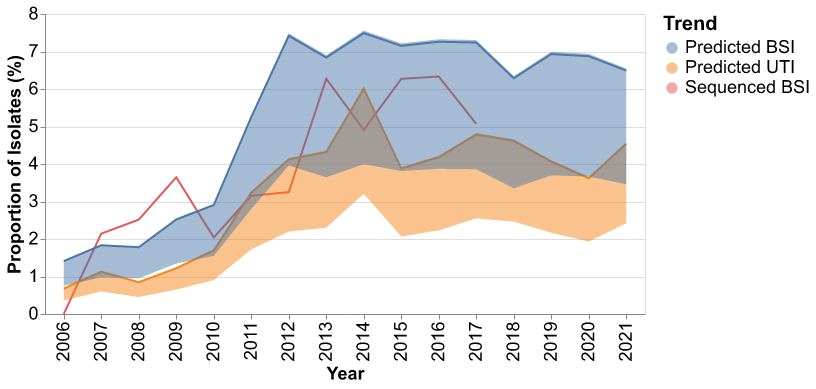
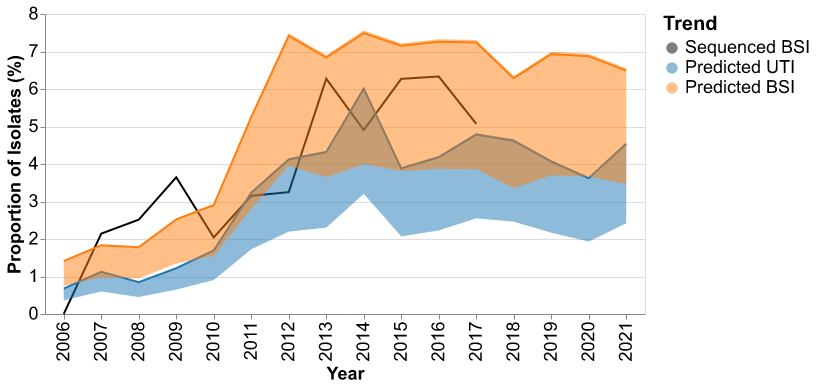
updating plot colors

Changed region(s): [[0.0613, 0.0617, 0.7659, 0.8021], [0.7966, 0.0925, 1.0, 0.1851], [0.7966, 0.1851, 1.0, 0.2468]]

diff --git a/scripts/classifierutils.py b/scripts/classifierutils.py
@@ -283,10 +283,12 @@ def testClassifiers(df:pd.core.frame.DataFrame, err_df:pd.core.frame.DataFrame, 
         alt_df.reset_index(inplace=True)
 
         ## Visualize the fraction predictions
+        c_domain = classifier_names+["Truth"]
+        c_range = ["#1f77b4","#ff7f0e","#000000"]
         line = alt.Chart(alt_df).mark_line().encode(
             x="Year:O",
             y=alt.Y("Fraction:Q", title="Proportion of Isolates (%)"),
-            color=alt.Color("Classifier:N", sort=classifier_names+["Truth"])
+            color=alt.Color("Classifier:N", sort=c_domain).scale(domain=c_domain, range=c_range)
         ).properties(
             title=split
         )
@@ -294,7 +296,7 @@ def testClassifiers(df:pd.core.frame.DataFrame, err_df:pd.core.frame.DataFrame, 
             x="Year:O",
             y=alt.Y("max:Q", title="Proportion of Isolates (%)"),
             y2=alt.Y2("min:Q", title="Proportion of Isolates (%)"),
-            color=alt.Color("Classifier:N", sort=classifier_names+["Truth"])
+            color=alt.Color("Classifier:N", sort=c_domain).scale(domain=c_domain, range=c_range)
         )
         chrt = line+err_band
         chrt = chrt.properties(width=300, height=300)
@@ -407,10 +409,12 @@ def predictClassifiers(uti_df:pd.core.frame.DataFrame, bsi_df:pd.core.frame.Data
     melt_alt_df.reset_index(inplace=True)
     
     ## Visualize the predicted yearly fractions
+    c_domain = melt_alt_df["Classifier"].unique().tolist()
+    c_range = ["#000000","#1f77b4","#ff7f0e"]
     line = alt.Chart(melt_alt_df).mark_line().encode(
         x="Year:O",
         y=alt.Y("Fraction:Q", title="Proportion of Isolates (%)"),
-        color=alt.Color("Classifier:N", title="Trend")
+        color=alt.Color("Classifier:N", title="Trend").scale(domain=c_domain, range=c_range)
     )
     err = alt.Chart(melt_alt_df).mark_area(opacity=0.5).encode(
         x="Year:O",
